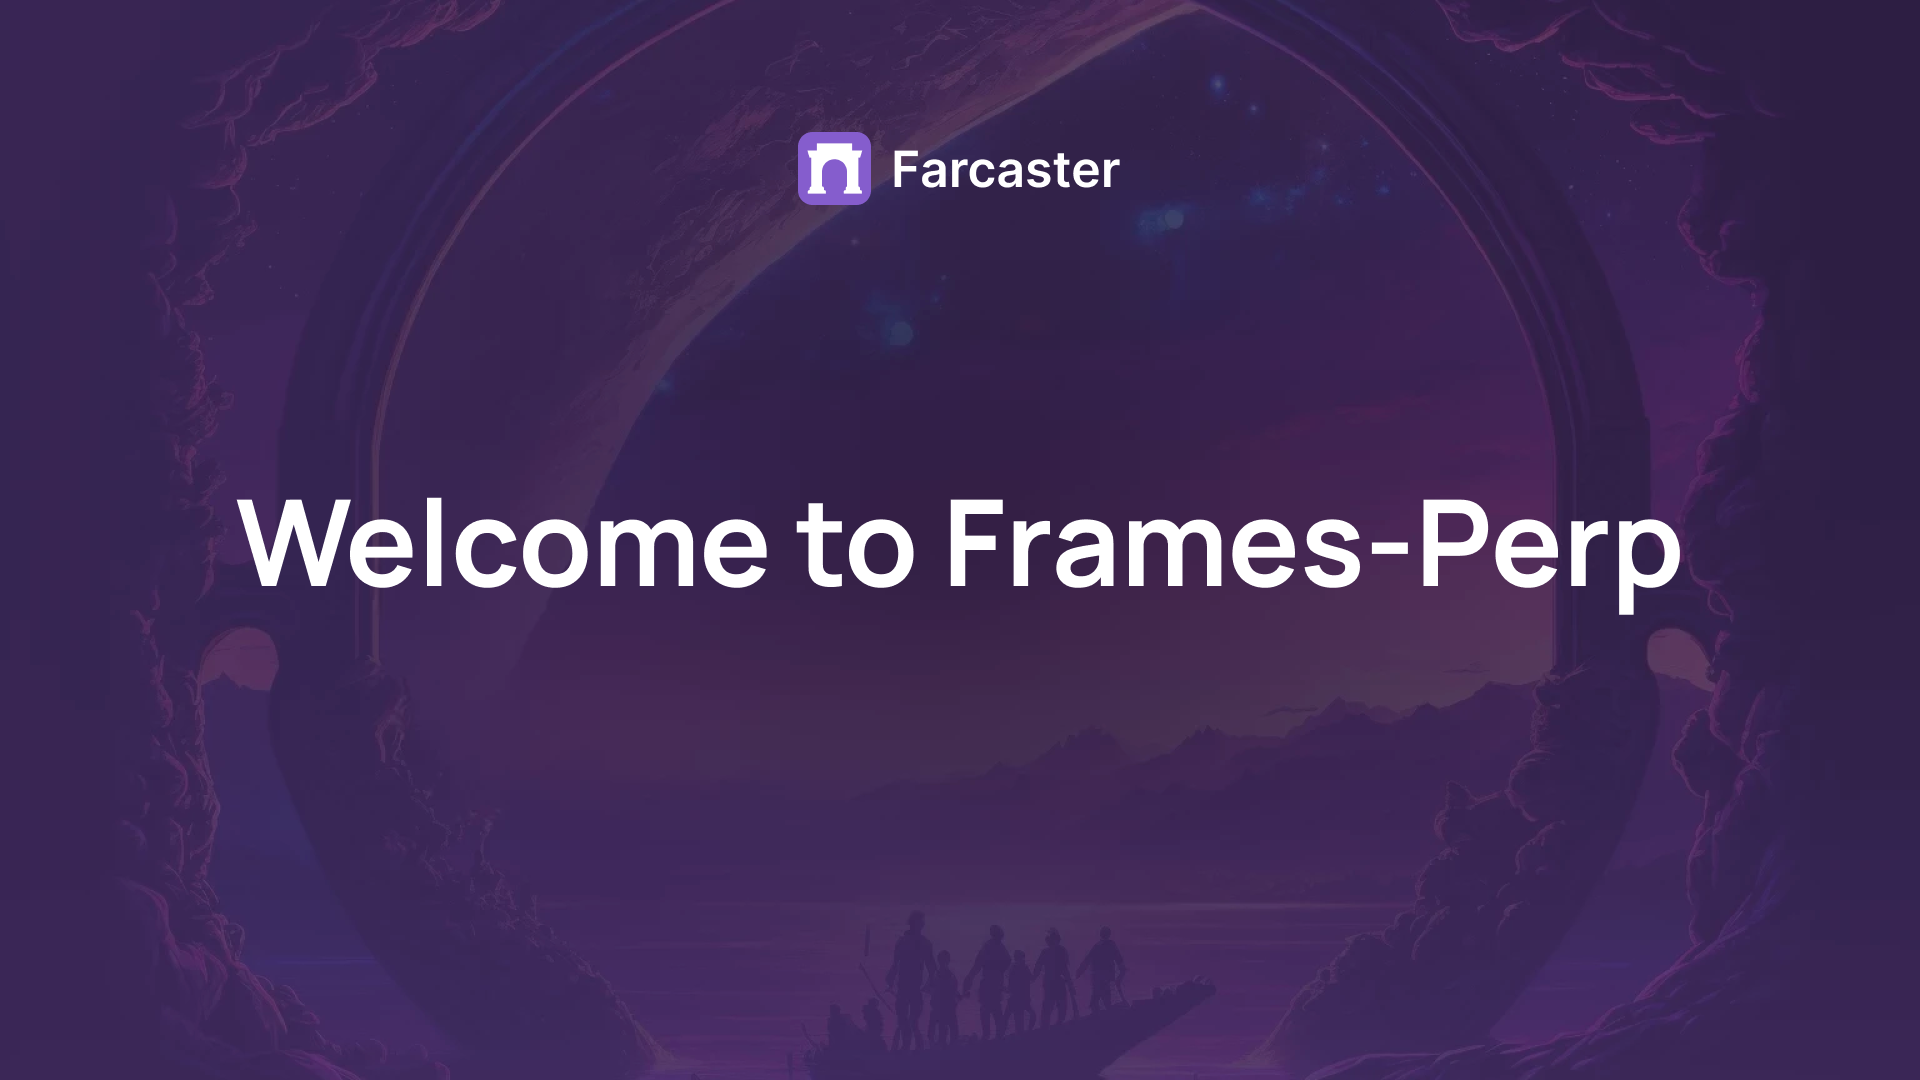
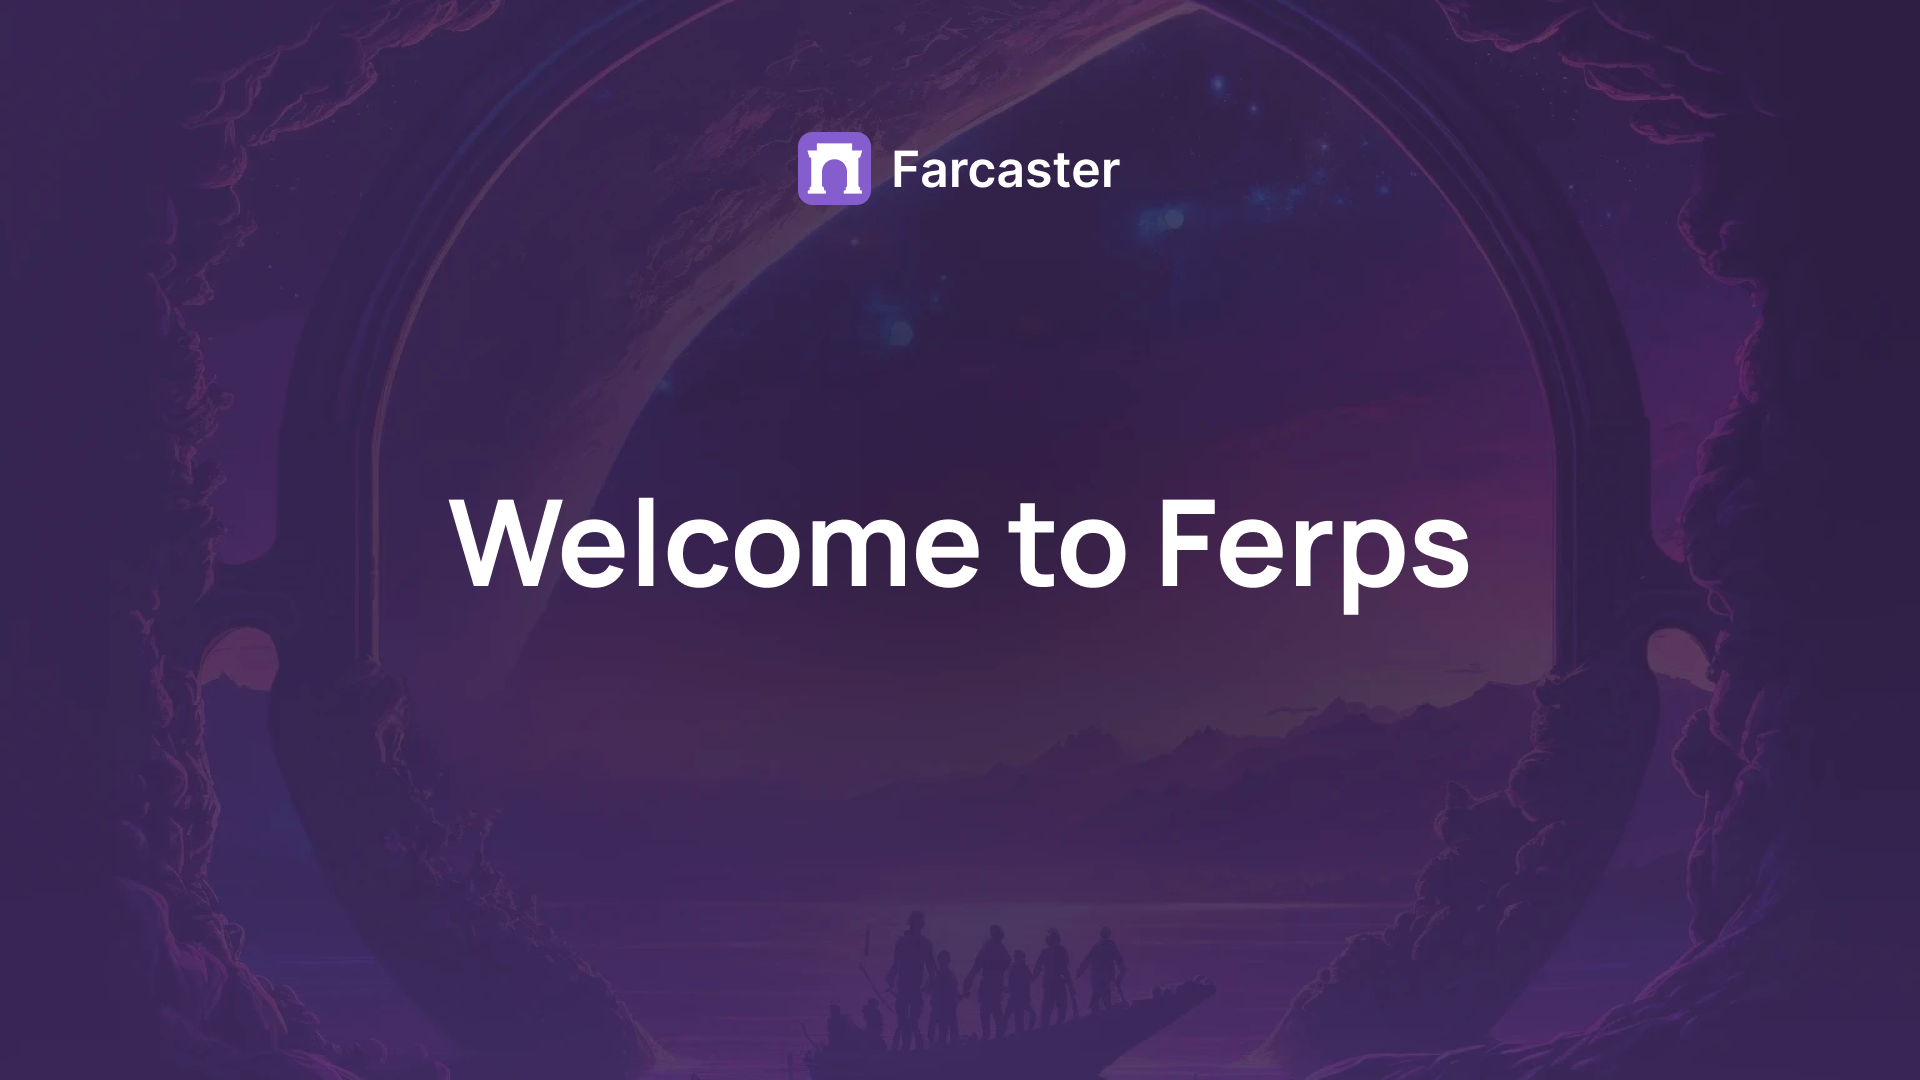
fix: changed image path

Changed region(s): [[0.125, 0.4583, 0.875, 0.5806]]

diff --git a/src/pages/api/checkout.ts b/src/pages/api/checkout.ts
@@ -28,15 +28,15 @@ export default async function (req: VercelRequest, res: VercelResponse) {
         <head>
           <meta charset="utf-8" />
           <meta name="viewport" content="width=device-width" />
-          <meta property="og:title" content="Instant Checkout powered by Fetcch" />
+          <meta property="og:title" content="Instant perp by rkmonarch" />
           <meta
             property="og:image"
-            content="https://instant-checkout-farcaster.vercel.app/img/checkout.png"
+            content="https://frames-perp.vercel.app/deposit.png"
           />
           <meta property="fc:frame" content="vNext" />
           <meta
             property="fc:frame:image"
-            content="https://instant-checkout-farcaster.vercel.app/img/checkout.png"
+            content="https://frames-perp.vercel.app/deposit.png"
           />
           <meta
             property="fc:frame:button:1"
@@ -44,7 +44,7 @@ export default async function (req: VercelRequest, res: VercelResponse) {
           />
           <meta
             name="fc:frame:post_url"
-            content="https://b3bd-125-99-228-169.ngrok-free.app/api/checkout"
+            content="https://fd13-2409-40f2-5-553b-585f-4422-d73b-dca7.ngrok-free.app/api/checkout"
           />
         </head>
       </html>
@@ -62,20 +62,20 @@ export default async function (req: VercelRequest, res: VercelResponse) {
       <head>
         <meta charset="utf-8" />
         <meta name="viewport" content="width=device-width" />
-        <meta property="og:title" content="Instant Perp by rkmonarch" />
+        <meta property="og:title" content="Instant Ferps by rkmonarch" />
         <meta
           property="og:image"
-          content="https://instant-checkout-farcaster.vercel.app/img/fetcch.png"
+          content="https://frames-perp.vercel.app/welcome.png"
         />
         <meta property="fc:frame" content="vNext" />
         <meta
           property="fc:frame:image"
-          content="/connect_wallet.png"
+          content="https://frames-perp.vercel.app/welcome.png"
         />
         <meta property="fc:frame:button:1" content="let's get started" />
         <meta
           name="fc:frame:post_url"
-          content="https://b3bd-125-99-228-169.ngrok-free.app/api/checkout"
+          content="https://fd13-2409-40f2-5-553b-585f-4422-d73b-dca7.ngrok-free.app/api/checkout"
         />
       </head>
     </html>

diff --git a/src/utils/requestDeposit.ts b/src/utils/requestDeposit.ts
@@ -24,8 +24,8 @@ export default async function requestDeposit(pubKey: string) {
                     }
                 }
             ],
-            "message": "Frames Perp Checkout",
-            "label": "Frames Perp Checkout",
+            "message": "Ferps Checkout",
+            "label": "Ferps Checkout",
         }
     });
     console.log("Request: ", request);

diff --git a/src/utils/postCast.ts b/src/utils/postCast.ts
@@ -10,7 +10,7 @@ export default async function postCast(id: number) {
         },
         data: {
             "signer_uuid": process.env.SIGNER_UUID,
-            "text": `Instant checkout by Fetcch, link - https://request.fetcch.xyz/request/${id}}`
+            "text": `Instant Ferp by rkmonarch, link - https://request.fetcch.xyz/request/${id}}`
         }
     })
 }
